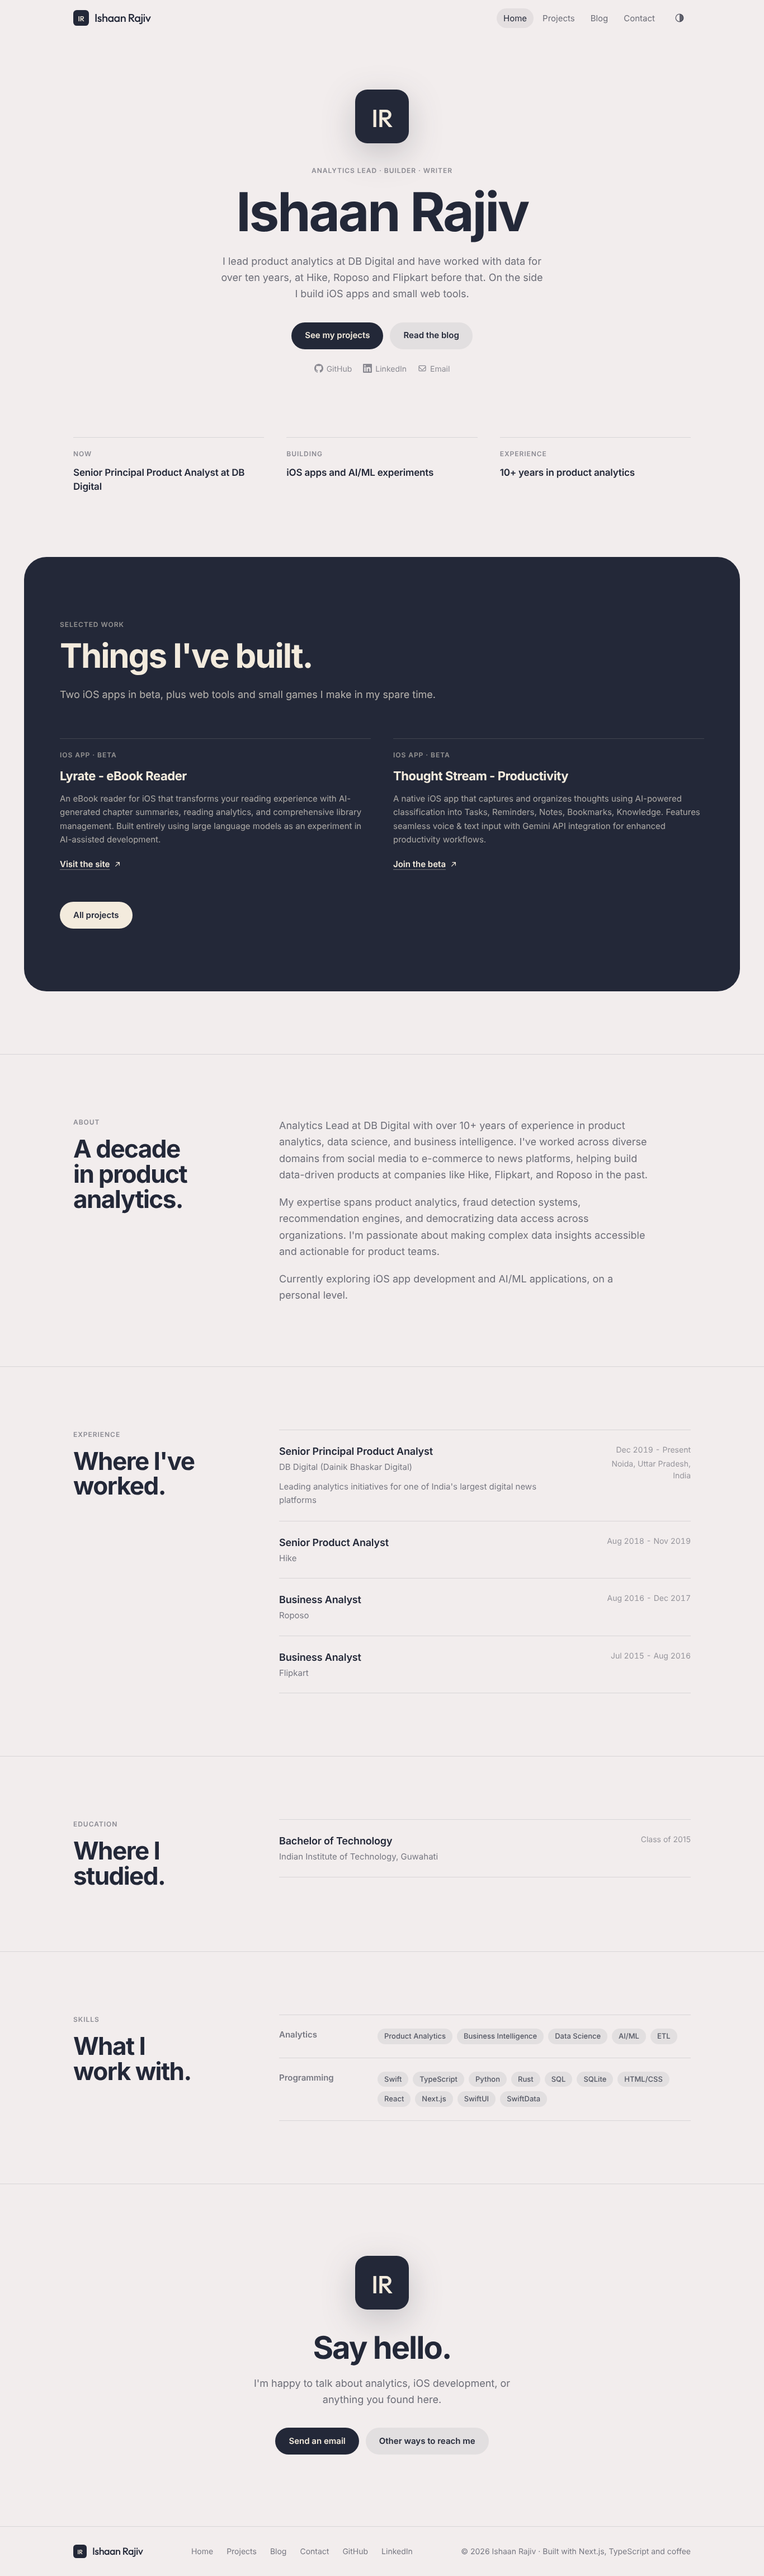
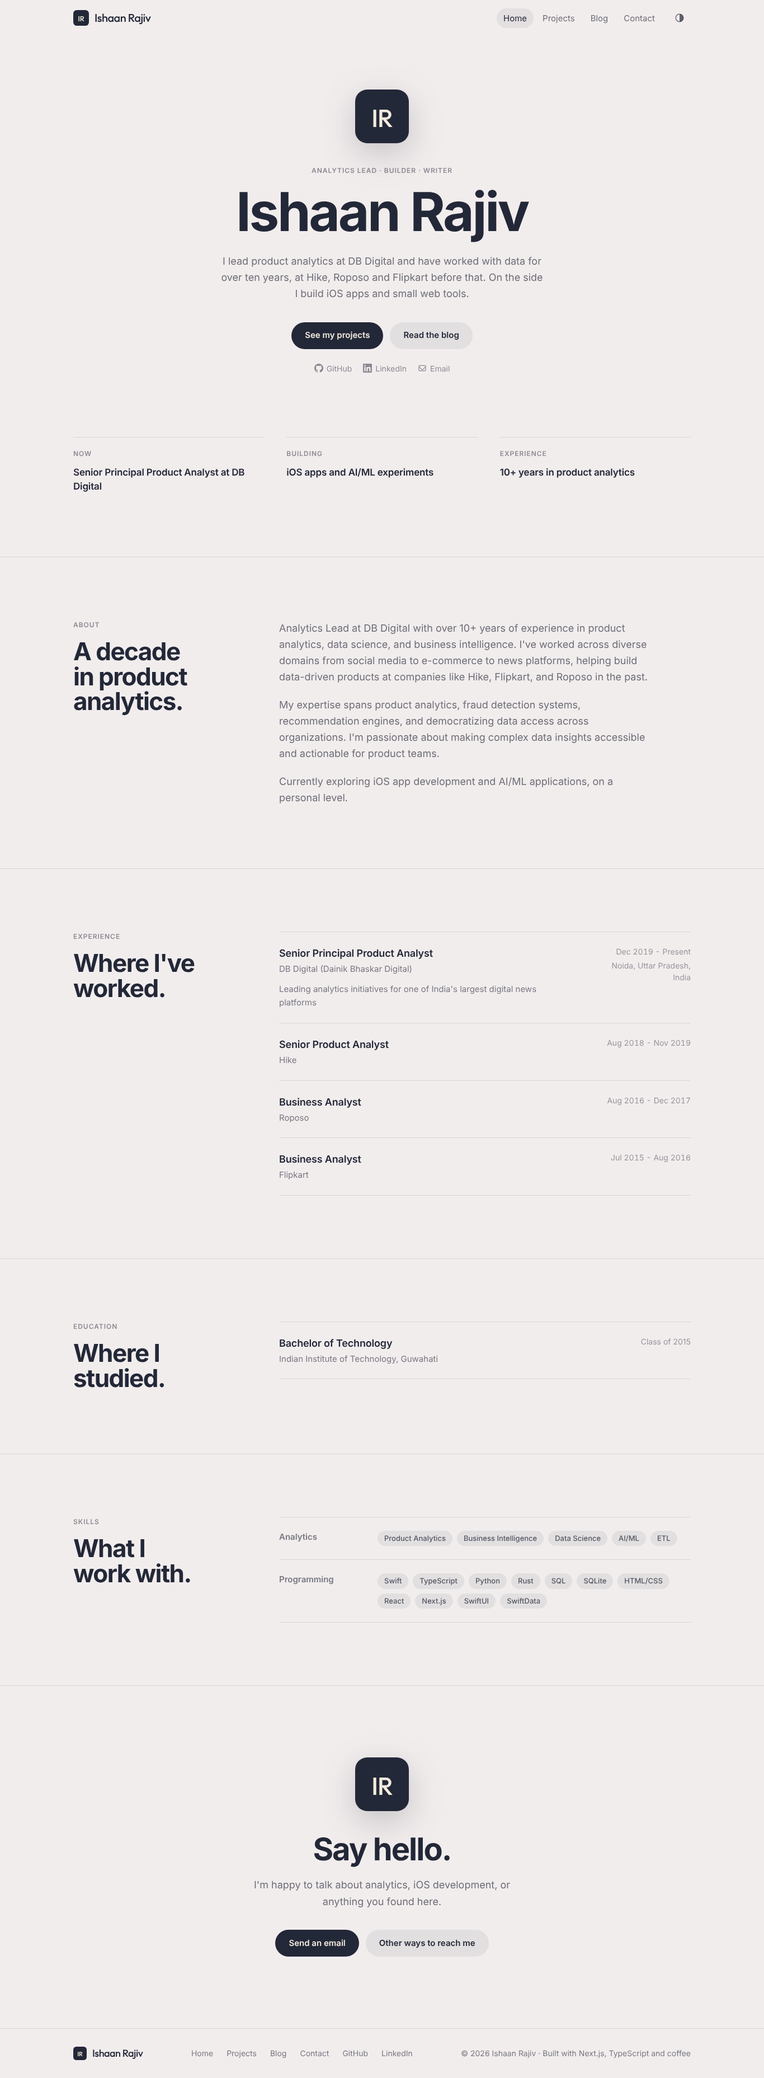
Remove the featured work panel from the home page
The "See my projects" button in the hero already links to the projects
page, so the panel repeated it.

Claude-Session: https://claude.ai/code/session_01W5nbuDrFqjo6E3j94xioLB

diff --git a/app/page.tsx b/app/page.tsx
@@ -6,8 +6,8 @@ import ContentErrorBoundary from '@/components/ContentErrorBoundary';
 import SiteFooter from '@/components/SiteFooter';
 import { Monogram } from '@/components/Brand';
 import { Container, Section, externalLinkProps } from '@/components/SiteUI';
-import { ArrowOutIcon, EmailIcon, GitHubIcon, LinkedInIcon } from '@/components/icons';
-import { getCVData, getProjectsData, getSiteConfig } from '@/lib/content';
+import { EmailIcon, GitHubIcon, LinkedInIcon } from '@/components/icons';
+import { getCVData, getSiteConfig } from '@/lib/content';
 
 const FACTS = [
   { label: 'Now', body: 'Senior Principal Product Analyst at DB Digital' },
@@ -18,7 +18,6 @@ const FACTS = [
 export default function Home(): React.JSX.Element {
   const { site } = getSiteConfig();
   const { cv } = getCVData();
-  const { projects } = getProjectsData();
 
   const socials = [
     { label: 'GitHub', href: site.contact.github, icon: GitHubIcon },
@@ -77,57 +76,6 @@ export default function Home(): React.JSX.Element {
               </ul>
             </Container>
           </section>
-
-          {/* Featured work, on an ink panel like the privacy section on the Lyrate site */}
-          <section id="work" className="px-2 sm:px-4">
-            <div className="mx-auto max-w-[80rem] rounded-[2rem] bg-ink px-6 py-20 text-on-ink sm:rounded-[2.5rem] sm:px-12 sm:py-28">
-              <div className="mx-auto max-w-page">
-                <div className="rise max-w-2xl">
-                  <p className="text-[0.75rem] font-semibold uppercase tracking-[0.08em] text-on-ink/55">Selected work</p>
-                  <h2 className="display mt-4 text-[2.5rem] sm:text-[3.75rem]">Things I&apos;ve built.</h2>
-                  <p className="mt-6 text-[1.0625rem] leading-relaxed text-on-ink/70 sm:text-lg">
-                    Two iOS apps in beta, plus web tools and small games I make in my spare time.
-                  </p>
-                </div>
-
-                <ul className="mt-16 grid gap-10 sm:grid-cols-2">
-                  {projects.featured.map((project) => {
-                    const href = project.links.website || project.links.app_store || project.links.testflight;
-
-                    return (
-                      <li key={project.name} className="rise border-t border-on-ink/15 pt-5">
-                        <p className="text-[0.75rem] font-semibold uppercase tracking-[0.08em] text-on-ink/55">
-                          {project.type}
-                          {project.status ? ` · ${project.status}` : null}
-                        </p>
-                        <h3 className="mt-3 text-[1.375rem] font-bold tracking-[-0.02em]">{project.name}</h3>
-                        <p className="mt-3 text-[0.9375rem] leading-relaxed text-on-ink/65">{project.description}</p>
-                        {href ? (
-                          <a
-                            href={href}
-                            {...externalLinkProps(href)}
-                            className="mt-5 inline-flex items-center gap-1.5 rounded-sm text-[0.9375rem] font-semibold underline decoration-on-ink/40 underline-offset-4 transition-colors hover:decoration-on-ink focus-visible:outline-on-ink"
-                          >
-                            {project.links.website ? 'Visit the site' : 'Join the beta'}
-                            <ArrowOutIcon className="h-4 w-4" />
-                          </a>
-                        ) : null}
-                      </li>
-                    );
-                  })}
-                </ul>
-
-                <Link
-                  href="/projects"
-                  className="mt-14 inline-flex h-12 items-center justify-center rounded-full bg-on-ink px-6 text-[0.9375rem] font-semibold text-ink transition-transform duration-200 hover:scale-[1.02] active:scale-[0.98] focus-visible:outline-on-ink"
-                >
-                  All projects
-                </Link>
-              </div>
-            </div>
-          </section>
-
-          <div className="h-20 sm:h-28" />
 
           <Section id="about" label="About" title="A decade in product analytics.">
             <div className="space-y-5">
